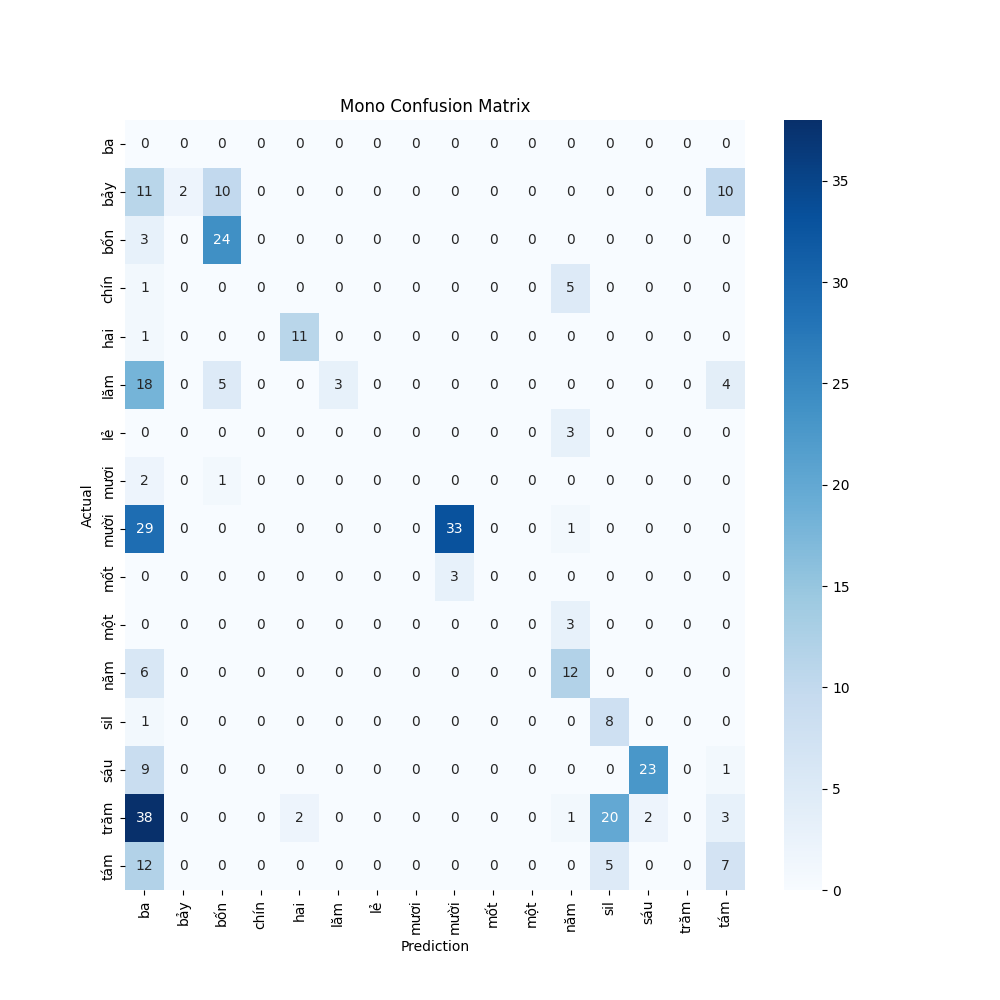
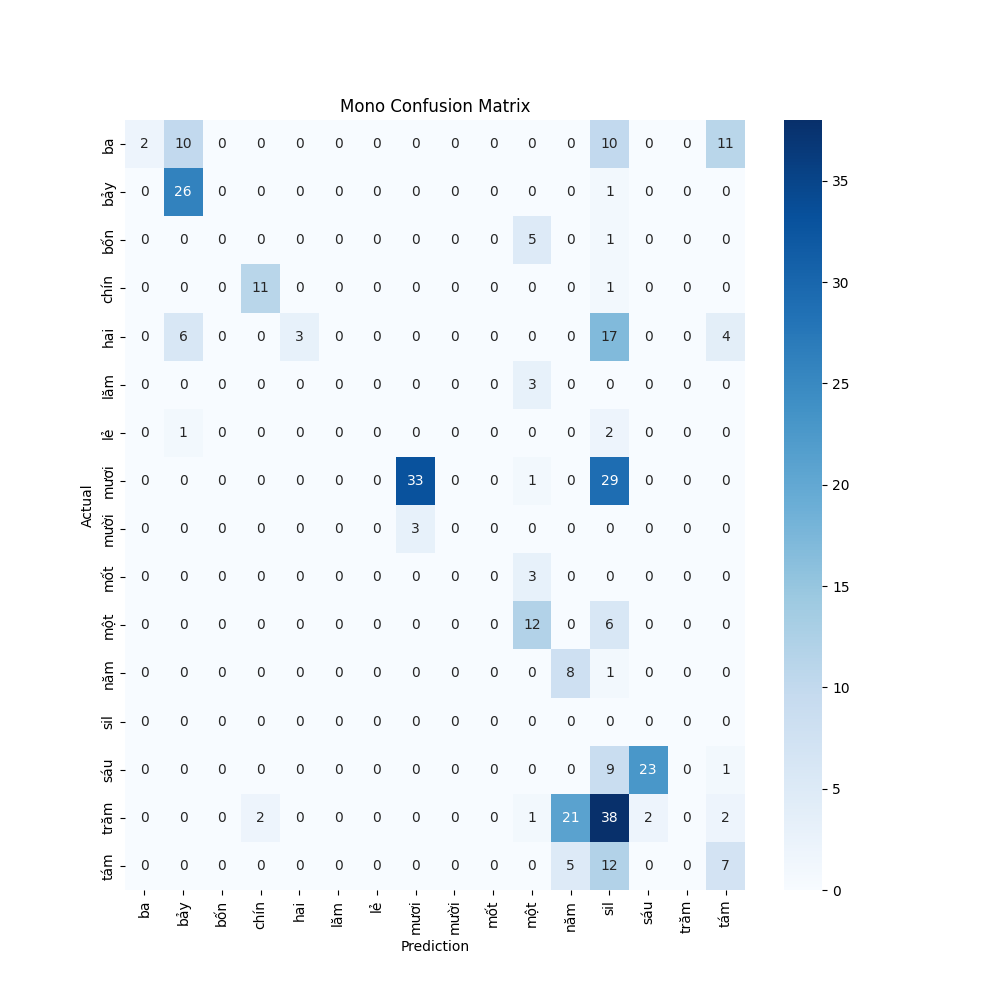
revise confusion matrix

diff --git a/custom/confusion_matrix.py b/custom/confusion_matrix.py
@@ -4,9 +4,9 @@ import seaborn as sns
 import matplotlib.pyplot as plt
 
 transcript_to_telex = pd.read_csv("TranscriptToName.csv")
-plt.figure(figsize = (10,10))
 
 def create_confusion_matrix(type):
+    plt.figure(figsize = (10,10))
     with open(f"/home/cs398/kaldi/egs/kaldi-fuv/outputs/out_{type}.txt", "r") as f:
         results = f.readlines()
     prediction = []
@@ -16,11 +16,10 @@ def create_confusion_matrix(type):
             act, pred = result.split()
         except:
             act = result.strip()
-            pred = ""
+            pred = "sil"
         act = transcript_to_telex.loc[transcript_to_telex["filename"] == act.split("_")[3], "transcript"].iloc[0]
         actual.append(act)
         prediction.append(pred)
-    print(len(actual))
     cf_matrix = confusion_matrix(actual, prediction)
 
     ax = sns.heatmap(cf_matrix, annot=True, cmap='Blues')
@@ -31,9 +30,6 @@ def create_confusion_matrix(type):
 
     ## Ticket labels - List must be in alphabetical order
     tick_labels = transcript_to_telex.transcript.to_list()
-    print(tick_labels)
-    print(set(actual))
-    print(set(prediction))
 
     tick_labels.sort()
     ax.set_xticklabels(tick_labels, rotation=90)
@@ -43,6 +39,7 @@ def create_confusion_matrix(type):
     ## Save the visualization of the Confusion Matrix.
     # plt.figure(figsize=(20,20))
     plt.savefig(f"{type}_confusion_matrix.png")
+    plt.show()
     print(f"Save image at {type}_confusion_matrix.png")
 
 # MONO
